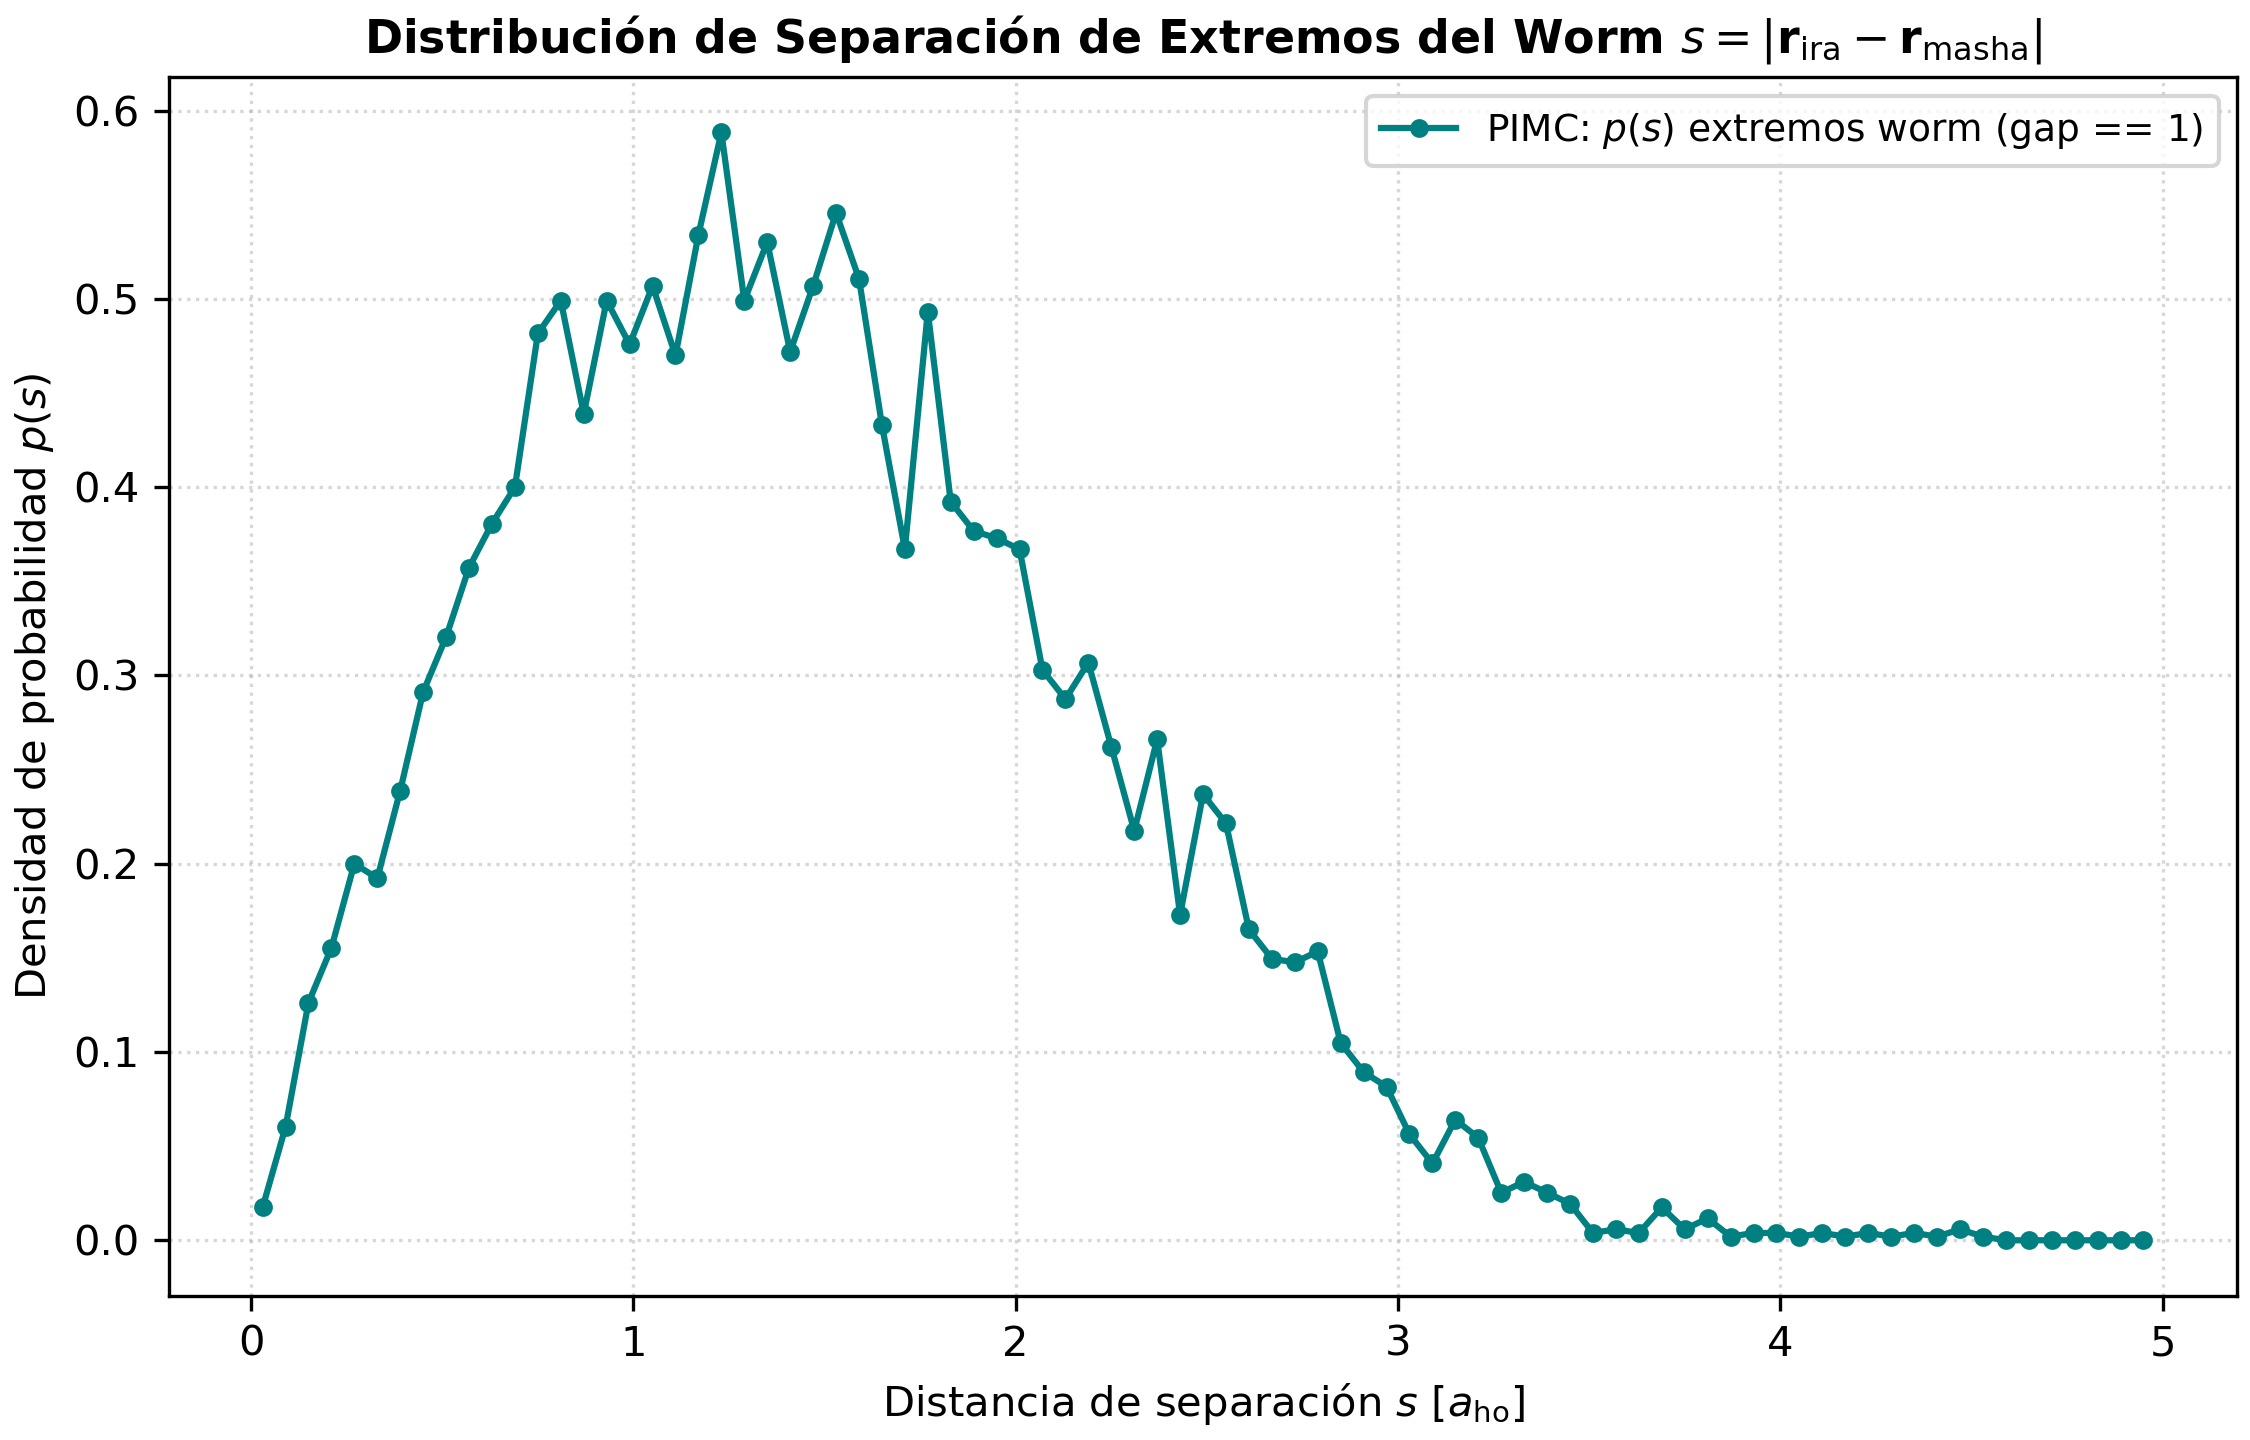
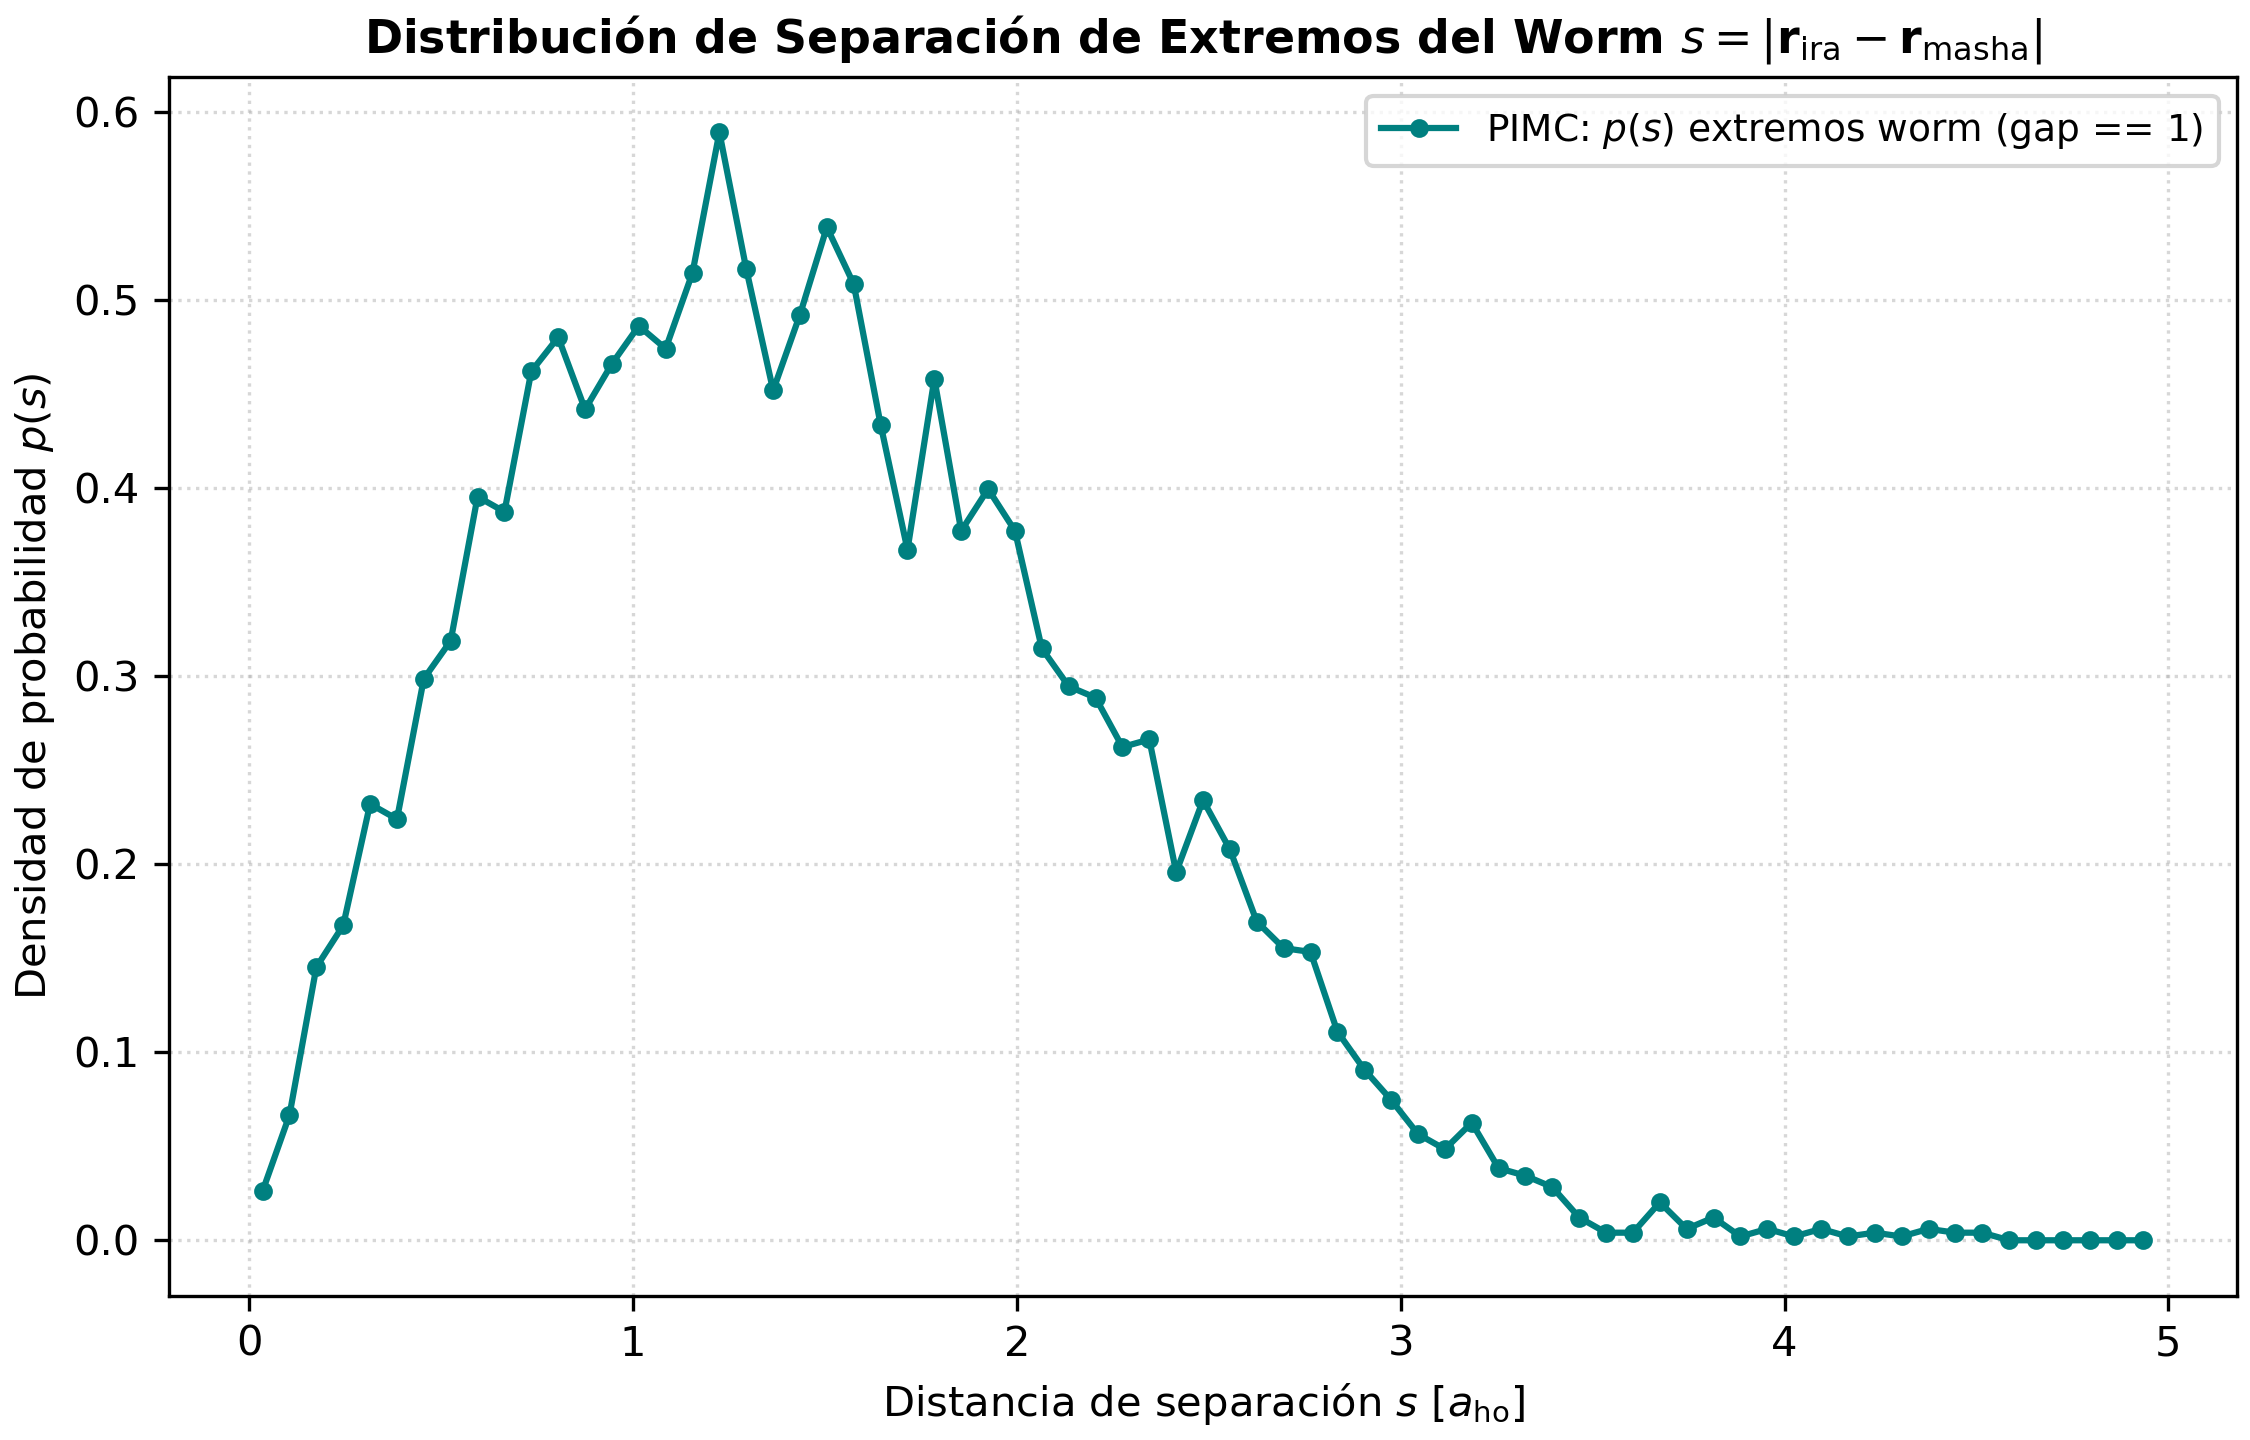
cambios y arreglos algoritmo OBDM

diff --git a/generar_graficos_obdm.py b/generar_graficos_obdm.py
@@ -8,7 +8,7 @@ del Algoritmo Worm (Prokof'ev-Svistunov / Dornheim 2014 / Boninsegni 2006).
 
 Incluye:
   1. Solución analítica exacta de referencia (Kernel de Mehler y expansión en ciclos).
-  2. Carga y normalización de la matriz medida en Sector G (gap == 1).
+    2. Carga de la matriz medida en Sector G (gap == 1), normalizada por la traza en C.
   3. Gráficas de mapa de calor 2D (PIMC vs Analítico vs Residuos).
   4. Cortes unidimensionales: diagonal local rho_1(x, x) y cortes de coherencia rho_1(x, -x), rho_1(x, 0).
   5. Decaimiento de la coherencia cuántica en función de la distancia de separación s = |r - r'|.
@@ -141,11 +141,12 @@ def load_worm_obdm_data(data_path):
     step = float(metadata.get("step", (max_x - min_x) / grid_size))
 
     # Cargar datos tabulares: col 0: x, col 1: x_prime, col 2: count, col 3: rho1_norm
-    raw_data = np.loadtxt(data_path, comments="#")
+    raw_data = np.atleast_2d(np.loadtxt(data_path, comments="#"))
     x_vals = np.linspace(min_x + 0.5 * step, max_x - 0.5 * step, grid_size)
     
     # Reconstruir matriz cuadrada
     matrix_counts = np.zeros((grid_size, grid_size), dtype=float)
+    matrix_norm = np.zeros((grid_size, grid_size), dtype=float)
     if raw_data.shape[1] >= 3:
         for row in raw_data:
             ix = int(np.floor((row[0] - min_x) / step))
@@ -153,16 +154,17 @@ def load_worm_obdm_data(data_path):
             if 0 <= ix < grid_size and 0 <= ixp < grid_size:
                 matrix_counts[ix, ixp] = row[2]
                 matrix_counts[ixp, ix] = row[2]  # Simetrización Hermítica
+                if raw_data.shape[1] >= 4:
+                    matrix_norm[ix, ixp] = row[3]
+                    matrix_norm[ixp, ix] = row[3]
 
-    # Normalización exacta por traza: \int rho_1(x, x) dx = N
-    trace_integral = np.sum(np.diag(matrix_counts)) * step
     n_part = int(metadata.get("N", N_PARTICLES))
-    if trace_integral > 0:
-        matrix_norm = matrix_counts * (float(n_part) / trace_integral)
-    else:
-        matrix_norm = matrix_counts
+    raw_trace_integral = np.sum(np.diag(matrix_counts)) * step
+    if raw_data.shape[1] < 4 and raw_trace_integral > 0:
+        matrix_norm = matrix_counts * (float(n_part) / raw_trace_integral)
 
-    metadata["trace_integral"] = trace_integral
+    metadata["raw_trace_integral"] = raw_trace_integral
+    metadata["trace_integral"] = np.sum(np.diag(matrix_norm)) * step
     return x_vals, matrix_norm, matrix_counts, metadata
 
 
@@ -199,7 +201,10 @@ def generar_mapa_calor_obdm(x_vals, pimc_matrix, n_particles=N_PARTICLES, temp=T
     fig, axes = plt.subplots(1, 3, figsize=(16, 4.8), constrained_layout=True)
 
     # Panel 1: PIMC
-    im0 = axes[0].imshow(pimc_matrix, extent=[x_vals[0], x_vals[-1], x_vals[0], x_vals[-1]],
+    half_step = 0.5 * (x_vals[1] - x_vals[0])
+    extent = [x_vals[0] - half_step, x_vals[-1] + half_step,
+              x_vals[0] - half_step, x_vals[-1] + half_step]
+    im0 = axes[0].imshow(pimc_matrix.T, extent=extent,
                          origin="lower", cmap="viridis", vmin=vmin, vmax=vmax)
     axes[0].set_title(r"$\rho_1(x, x')$ -- PIMC Algoritmo Worm", fontsize=12, fontweight="bold")
     axes[0].set_xlabel(r"Posición $x$ [$a_{\mathrm{ho}}$]", fontsize=11)
@@ -207,7 +212,7 @@ def generar_mapa_calor_obdm(x_vals, pimc_matrix, n_particles=N_PARTICLES, temp=T
     fig.colorbar(im0, ax=axes[0], fraction=0.046, pad=0.04)
 
     # Panel 2: Analítico Bose
-    im1 = axes[1].imshow(bose_exact, extent=[x_vals[0], x_vals[-1], x_vals[0], x_vals[-1]],
+    im1 = axes[1].imshow(bose_exact.T, extent=extent,
                          origin="lower", cmap="viridis", vmin=vmin, vmax=vmax)
     axes[1].set_title(r"$\rho_1(x, x')$ -- Analítico Bose Canónico", fontsize=12, fontweight="bold")
     axes[1].set_xlabel(r"Posición $x$ [$a_{\mathrm{ho}}$]", fontsize=11)
@@ -216,7 +221,7 @@ def generar_mapa_calor_obdm(x_vals, pimc_matrix, n_particles=N_PARTICLES, temp=T
 
     # Panel 3: Residuos
     max_err = max(np.max(np.abs(diff_matrix)), 1e-4)
-    im2 = axes[2].imshow(diff_matrix, extent=[x_vals[0], x_vals[-1], x_vals[0], x_vals[-1]],
+    im2 = axes[2].imshow(diff_matrix.T, extent=extent,
                          origin="lower", cmap="coolwarm", vmin=-max_err, vmax=max_err)
     axes[2].set_title(r"Residuo: $\rho_1^{\mathrm{PIMC}} - \rho_1^{\mathrm{Bose}}$", fontsize=12, fontweight="bold")
     axes[2].set_xlabel(r"Posición $x$ [$a_{\mathrm{ho}}$]", fontsize=11)
@@ -252,8 +257,9 @@ def generar_cortes_obdm(x_vals, pimc_matrix, n_particles=N_PARTICLES, temp=TEMP,
     antidiag_dist = analytical_distinguishable_obdm_1d(x_vals, -x_vals, n_particles, temp)
 
     # Corte x' = 0 (coherencia con el centro de la trampa)
-    idx_center = np.argmin(np.abs(x_vals))
-    cut_center_pimc = pimc_matrix[:, idx_center]
+    cut_center_pimc = np.array([
+        np.interp(0.0, x_vals, pimc_matrix[i, :]) for i in range(len(x_vals))
+    ])
     cut_center_bose = analytical_bose_obdm_1d(x_vals, np.zeros_like(x_vals), n_particles, temp)
     cut_center_dist = analytical_distinguishable_obdm_1d(x_vals, np.zeros_like(x_vals), n_particles, temp)
 

diff --git a/pimc.c b/pimc.c
@@ -704,9 +704,6 @@ void InitWorm(void) {
   worm_cycle_histogram = (long long*) calloc(N + 1, sizeof(long long));
   worm_cycle_samples = 0;
 
-  if(RD.max > 0.0 && worm_obdm_max == 3.5) {
-    worm_obdm_max = RD.max;
-  }
   if(worm_obdm_grid < 10) worm_obdm_grid = 100;
 
   worm_obdm_matrix = (long long**) malloc(worm_obdm_grid * sizeof(long long*));
@@ -1336,24 +1333,27 @@ void MeasureWormOBDM(void) {
 void SaveWormOBDM(const char *filename) {
   FILE *f;
   int i, j;
-  DOUBLE step_x, x_val, xp_val, norm_trace, trace_sum;
+  DOUBLE step_x, step_r, x_val, xp_val, norm_trace, trace_sum;
 
   if(worm_obdm_matrix == NULL || worm_obdm_samples_gap1 == 0) return;
 
   step_x = (2.0 * worm_obdm_max) / (DOUBLE)worm_obdm_grid;
+  step_r = worm_obdm_max / (DOUBLE)worm_obdm_grid;
 
   trace_sum = 0.0;
   for(i = 0; i < worm_obdm_grid; i++) {
     trace_sum += (DOUBLE)worm_obdm_matrix[i][i];
   }
-  norm_trace = (trace_sum > 0.0) ? ((DOUBLE)N / (trace_sum * step_x)) : 1.0;
+  if(trace_sum <= 0.0) return;
+  norm_trace = (DOUBLE)N / (trace_sum * step_x);
 
   f = fopen(filename, "w");
   if(f == NULL) return;
 
   fprintf(f, "# WORM_OBDM_MATRIX_GAP1\n");
-  fprintf(f, "# grid: %d min: %.6f max: %.6f step: %.6f samples: %lld norm_trace: %.15e N: %d\n",
-          worm_obdm_grid, -worm_obdm_max, worm_obdm_max, step_x, worm_obdm_samples_gap1, norm_trace, N);
+    fprintf(f, "# grid: %d min: %.6f max: %.6f step: %.6f samples: %lld norm_trace: %.15e N: %d tau: %.15e\n",
+      worm_obdm_grid, -worm_obdm_max, worm_obdm_max, step_x, worm_obdm_samples_gap1,
+      norm_trace, N, 1.0 / (T * (DOUBLE)Nwalkers));
   fprintf(f, "# x x_prime count rho1_normalized\n");
 
   for(i = 0; i < worm_obdm_grid; i++) {
@@ -1380,6 +1380,31 @@ void SaveWormOBDM(const char *filename) {
       DOUBLE s_val = ((DOUBLE)i + 0.5) * step_s;
       DOUBLE p_s = (dist_sum > 0) ? ((DOUBLE)worm_obdm_dist[i] / ((DOUBLE)dist_sum * step_s)) : 0.0;
       fprintf(f, "%.6f %lld %.15e\n", s_val, worm_obdm_dist[i], p_s);
+    }
+    fclose(f);
+  }
+
+  f = fopen("outworm_obdm_endpoint_radii.dat", "w");
+  if(f != NULL) {
+    DOUBLE radial_sum = 0.0;
+    for(i = 0; i < worm_obdm_grid; i++) {
+      for(j = 0; j < worm_obdm_grid; j++) {
+        radial_sum += (DOUBLE)worm_obdm_radial[i][j];
+      }
+    }
+    fprintf(f, "# WORM_OBDM_ENDPOINT_RADII_GAP1: samples=%lld\n", worm_obdm_samples_gap1);
+    fprintf(f, "# r_masha r_ira count p_radii\n");
+    for(i = 0; i < worm_obdm_grid; i++) {
+      DOUBLE r_masha = ((DOUBLE)i + 0.5) * step_r;
+      for(j = 0; j < worm_obdm_grid; j++) {
+        DOUBLE r_ira = ((DOUBLE)j + 0.5) * step_r;
+        DOUBLE p_radii = radial_sum > 0.0
+          ? (DOUBLE)worm_obdm_radial[i][j] / (radial_sum * step_r * step_r)
+          : 0.0;
+        fprintf(f, "%.6f %.6f %lld %.15e\n",
+                r_masha, r_ira, worm_obdm_radial[i][j], p_radii);
+      }
+      fprintf(f, "\n");
     }
     fclose(f);
   }

diff --git a/ejecutar_verificacion_obdm.py b/ejecutar_verificacion_obdm.py
@@ -7,7 +7,7 @@ muestreada mediante los extremos de cadenas abiertas en el Algoritmo Worm (PIMC)
 
 Calcula y valida:
   - Muestreo del sector G con gap == 1 (Ira y Masha).
-  - Normalización exacta de la traza diagonal a N partículas: \int \rho_1(x, x) dx = N.
+    - Comprobación de la traza del archivo, normalizada por construcción en el motor C.
   - Comparación de \rho_1(x, x') con la solución canónica exacta de Bose (Kernel de Mehler).
   - Comparación con el límite de partículas distinguibles para constatar la coherencia de Bose.
   - Generación de gráficos en alta resolución y sincronización con el directorio de Overleaf.
@@ -124,6 +124,7 @@ def main():
 
         obdm_file = os.path.join(SCRIPT_DIR, "outworm_obdm.dat")
         dist_file = os.path.join(SCRIPT_DIR, "outworm_obdm_dist.dat")
+        radii_file = os.path.join(SCRIPT_DIR, "outworm_obdm_endpoint_radii.dat")
         if not os.path.isfile(obdm_file):
             raise FileNotFoundError(f"No se generó el fichero esperado {obdm_file}")
 
@@ -131,13 +132,19 @@ def main():
         shutil.copy2(obdm_file, os.path.join(OUTPUT_DIR, "outworm_obdm.dat"))
         if os.path.isfile(dist_file):
             shutil.copy2(dist_file, os.path.join(OUTPUT_DIR, "outworm_obdm_dist.dat"))
+        if os.path.isfile(radii_file):
+            shutil.copy2(radii_file, os.path.join(OUTPUT_DIR, "outworm_obdm_endpoint_radii.dat"))
 
         print("\n[2/3] Procesando y normalizando matriz de densidad \rho_1(x, x')...")
         x_vals, pimc_norm, pimc_counts, meta = load_worm_obdm_data(obdm_file)
         n_samples = meta.get("samples", 0)
         trace_int = meta.get("trace_integral", 0.0)
         print(f"  -> Muestras en Sector G (gap == 1): {n_samples}")
-        print(f"  -> Integral de la traza diagonal sin normalizar: {trace_int:.4e}")
+        print(f"  -> Traza del histograma antes de normalizar: {meta.get('raw_trace_integral', 0.0):.4e}")
+        print(f"  -> Traza en el archivo exportado: {trace_int:.6f} (normalizada por construcción a N)")
+        tau_gap1 = meta.get("tau")
+        if tau_gap1 is not None:
+            print(f"  -> Separación temporal de gap=1: tau={tau_gap1:.6g}; la comparación tau=0 es aproximada")
 
         # Comparación analítica
         X, XP = np.meshgrid(x_vals, x_vals)
@@ -162,7 +169,7 @@ def main():
         generar_grafico_distancia_extremos(dist_file, n_particles=N_PARTICLES, temp=TEMP, save_dir=OUTPUT_DIR)
 
         print("\n=================================================================")
-        print("  VERIFICACIÓN DE OBDM COMPLETADA CON ÉXITO")
+        print("  ANÁLISIS DE OBDM COMPLETADO; las discrepancias son comparaciones diagnósticas")
         print("=================================================================")
         print(f"  Archivos generados en: {OUTPUT_DIR}")
         print(f"  Figuras copiadas a   : {OVERLEAF_IMG_DIR}")
